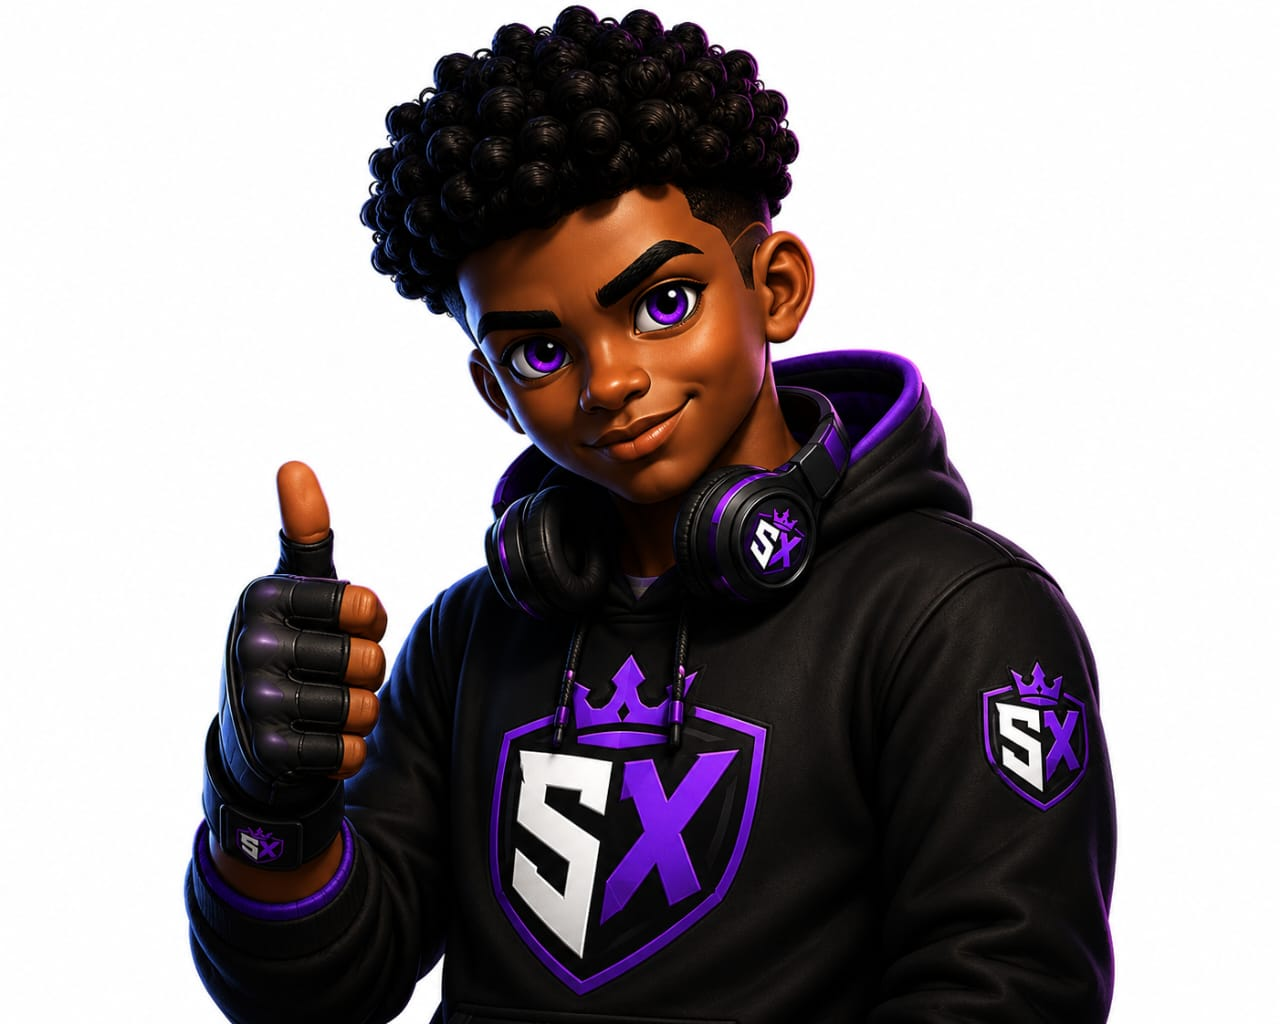
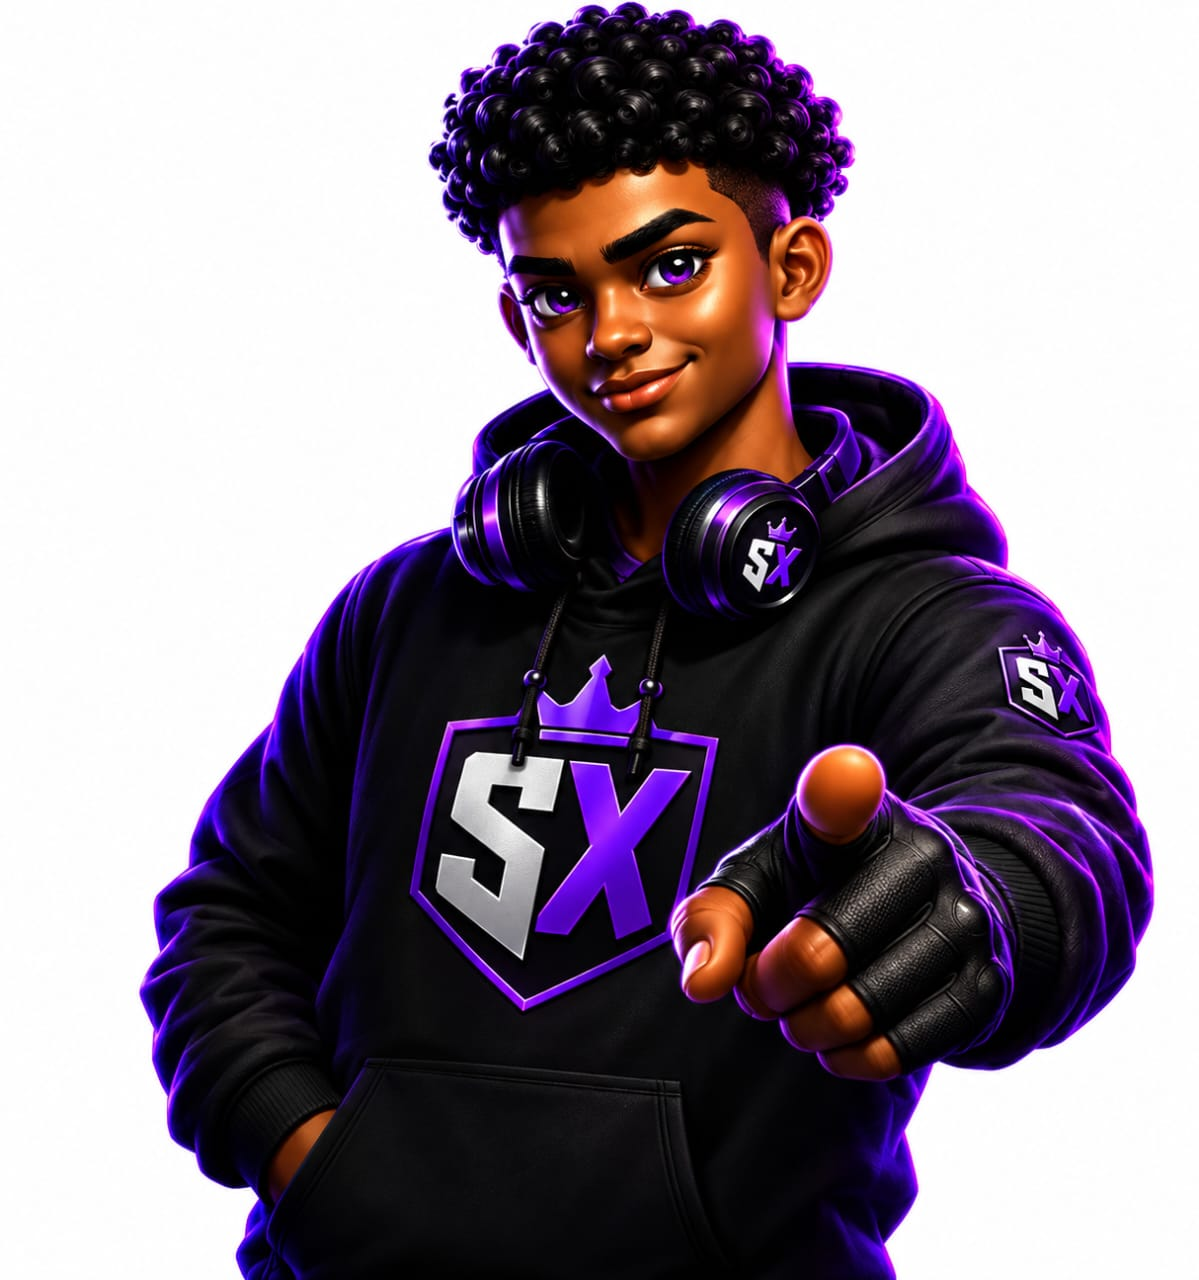
fix: restore Seasons to nav, rebuild About page hero/story/why-section
- Seasons was dropped from the tightened Navbar during the visual overhaul
  and only reachable by typing the URL directly — restored to NAVBAR_LINKS,
  and also added it (plus TV/Hall of Fame/Players/Betting, which the footer
  rewrite had silently dropped too) into the expanded footer's Platform
  column so nothing regresses like this again
- About hero: switched to the same absolute/inset-y-0 bottom-anchored
  mascot sizing used on the other 4 hero pages — the grid-stretch approach
  from the last fix was capped by the (short) text/promise-card content
  height instead of the section's actual height, so it barely grew
- About hero: "Our Promise" card now floats independently top-right instead
  of sharing a grid row with the mascot, matching the mockup's composition
- Leaderboards mascot pose was thumbs-up (mascot9) — mockup actually shows
  the same pointing-toward-viewer pose as Games, so regenerated
  mascot-leaderboards.png from mascot4.jpeg
- "Why Sentinel X" section's duplicate mascot-on-plain-gradient-box (looked
  like an unfinished placeholder) replaced with an abstract arena/crowd
  panel (pure CSS gradients + grid pattern) — no stadium photo asset exists
  to match the mockup's real photo, so this is a deliberate stand-in
  rather than reusing the mascot a third time on the page
- Timeline now has a connecting line through the 4 stage icons, matching
  the mockup's actual timeline look instead of a plain icon grid
[…]

diff --git a/app/(public)/about/page.tsx b/app/(public)/about/page.tsx
@@ -1,5 +1,5 @@
 import Image from 'next/image'
-import { ShieldCheck, Target, Eye, Gem, Flag, Trophy, Users, Rocket, Handshake, BookOpen, Gift } from 'lucide-react'
+import { ShieldCheck, Target, Eye, Gem, Flag, Trophy, Users, Rocket, Handshake, BookOpen, Gift, Crown } from 'lucide-react'
 import { buildMetadata } from '@/lib/seo/metadata'
 import { DEFAULT_OG_IMAGE } from '@/lib/seo/site'
 
@@ -79,7 +79,7 @@ export default function AboutPage() {
           aria-hidden
           className="pointer-events-none absolute -bottom-24 -left-24 h-72 w-72 rounded-full bg-sx-purple/25 blur-[100px]"
         />
-        <div className="relative grid gap-8 px-6 py-10 sm:px-10 sm:py-14 lg:grid-cols-[1fr_auto_auto] lg:items-end">
+        <div className="relative px-6 py-10 sm:px-10 sm:py-14 lg:py-16 lg:pr-64 xl:pr-[22rem]">
           <div className="text-center lg:text-left">
             <p className="mb-3 text-xs font-bold uppercase tracking-widest text-sx-purple-text">About Sentinel X</p>
             <h1 className="font-display text-4xl font-black uppercase leading-[0.95] tracking-tight text-white sm:text-5xl lg:text-6xl">
@@ -100,28 +100,30 @@ export default function AboutPage() {
               ))}
             </div>
           </div>
+        </div>
 
-          <div className="relative mx-auto h-64 w-52 shrink-0 sm:h-80 sm:w-64 lg:h-[26rem] lg:w-56 xl:h-[28rem] xl:w-64">
-            <Image
-              src="/mascot/mascot-about.png"
-              alt="Sentinel, the Sentinel X mascot"
-              fill
-              priority
-              sizes="(min-width: 1280px) 16rem, (min-width: 1024px) 14rem, 13rem"
-              className="object-contain object-bottom"
-            />
-          </div>
+        {/* Mascot — bottom-anchored, fills the hero's actual height at lg+ */}
+        <div className="relative mx-auto -mt-2 h-64 w-52 pb-8 sm:h-80 sm:w-64 lg:absolute lg:inset-y-0 lg:right-56 lg:mx-0 lg:h-auto lg:w-56 lg:pb-0 xl:right-64 xl:w-64">
+          <Image
+            src="/mascot/mascot-about.png"
+            alt="Sentinel, the Sentinel X mascot"
+            fill
+            priority
+            sizes="(min-width: 1280px) 16rem, (min-width: 1024px) 14rem, 13rem"
+            className="object-contain object-bottom"
+          />
+        </div>
 
-          <div className="w-full max-w-xs rounded-xl border border-sx-purple/30 bg-sx-surface p-5 lg:w-64">
-            <p className="mb-2 flex items-center gap-2 text-sm font-bold text-white">
-              <ShieldCheck className="h-4 w-4 text-sx-purple-text" /> Our Promise
-            </p>
-            <p className="text-xs italic text-sx-gray">
-              &ldquo;We provide a fair, safe and competitive environment where every gamer has the chance to
-              play, grow and succeed.&rdquo;
-            </p>
-            <p className="mt-3 font-display text-lg italic text-sx-purple-text">— Sentinel</p>
-          </div>
+        {/* Our Promise — floats top-right, independent of the mascot's height */}
+        <div className="relative mx-auto mt-6 w-full max-w-xs rounded-xl border border-sx-purple/30 bg-sx-surface p-5 lg:absolute lg:right-6 lg:top-8 lg:mx-0 lg:mt-0 lg:w-56 xl:w-64">
+          <p className="mb-2 flex items-center gap-2 text-sm font-bold text-white">
+            <ShieldCheck className="h-4 w-4 text-sx-purple-text" /> Our Promise
+          </p>
+          <p className="text-xs italic text-sx-gray">
+            &ldquo;We provide a fair, safe and competitive environment where every gamer has the chance to
+            play, grow and succeed.&rdquo;
+          </p>
+          <p className="mt-3 font-display text-lg italic text-sx-purple-text">— Sentinel</p>
         </div>
       </section>
 
@@ -168,10 +170,14 @@ export default function AboutPage() {
           Sentinel X was born from a simple belief: gamers deserve more. More opportunities, more
           platforms, and more respect.
         </p>
-        <div className="grid gap-6 sm:grid-cols-2 lg:grid-cols-4">
+        <div className="relative grid gap-8 sm:grid-cols-2 lg:grid-cols-4">
+          <div
+            aria-hidden
+            className="absolute left-5 right-5 top-5 hidden h-px bg-gradient-to-r from-transparent via-sx-purple/40 to-transparent lg:block"
+          />
           {TIMELINE.map((t) => (
-            <div key={t.year + t.title}>
-              <span className="mb-3 flex h-10 w-10 items-center justify-center rounded-full bg-sx-purple/15 text-sx-purple-text">
+            <div key={t.year + t.title} className="relative">
+              <span className="relative z-10 mb-3 flex h-10 w-10 items-center justify-center rounded-full border border-sx-purple/30 bg-sx-bg text-sx-purple-text">
                 <t.icon className="h-5 w-5" />
               </span>
               <p className="text-xs font-bold text-sx-purple-text">{t.year}</p>
@@ -184,15 +190,7 @@ export default function AboutPage() {
 
       {/* ── Why Sentinel X ────────────────────────────────────── */}
       <section className="mb-10 grid gap-8 rounded-xl border border-sx-border bg-sx-surface p-6 sm:p-8 lg:grid-cols-2 lg:items-center">
-        <div className="relative mx-auto h-64 w-full max-w-sm overflow-hidden rounded-xl bg-gradient-to-br from-sx-purple/20 via-sx-surface to-sx-bg">
-          <Image
-            src="/mascot/mascot-about.png"
-            alt="Sentinel, the Sentinel X mascot"
-            fill
-            sizes="24rem"
-            className="object-contain object-bottom"
-          />
-        </div>
+        <ArenaPanel />
         <div>
           <p className="mb-1 text-xs font-bold uppercase tracking-widest text-sx-purple-text">Why Sentinel X?</p>
           <h2 className="mb-5 font-display text-2xl font-black text-white">We Provide More</h2>
@@ -208,7 +206,16 @@ export default function AboutPage() {
       </section>
 
       {/* ── CTA banner ────────────────────────────────────────── */}
-      <section className="rounded-xl border border-sx-purple/30 bg-gradient-to-r from-sx-purple/20 to-transparent p-8 text-center">
+      <section className="relative overflow-hidden rounded-xl border border-sx-purple/30 bg-gradient-to-r from-sx-purple/20 to-transparent py-8 pl-24 pr-8 text-center sm:pl-32">
+        <div className="pointer-events-none absolute bottom-0 left-2 hidden h-full w-24 sm:block">
+          <Image
+            src="/mascot/mascot-about.png"
+            alt=""
+            fill
+            sizes="6rem"
+            className="object-contain object-bottom"
+          />
+        </div>
         <p className="font-display text-2xl font-black uppercase text-white sm:text-3xl">
           Be Part of Something Bigger.
         </p>
@@ -222,6 +229,41 @@ export default function AboutPage() {
           <Users className="h-4 w-4" /> Join the Community →
         </a>
       </section>
+    </div>
+  )
+}
+
+// Abstract "arena at night" panel — no stadium photo asset exists, so this is
+// built from layered gradients rather than reusing the mascot crop a second
+// time (which read as a placeholder, not a deliberate design choice).
+function ArenaPanel() {
+  return (
+    <div className="relative mx-auto h-64 w-full max-w-sm overflow-hidden rounded-xl border border-sx-border bg-sx-bg">
+      <div
+        aria-hidden
+        className="absolute inset-0"
+        style={{
+          backgroundImage:
+            'radial-gradient(circle at 20% 15%, rgba(124,58,237,0.35), transparent 45%),' +
+            'radial-gradient(circle at 80% 10%, rgba(124,58,237,0.25), transparent 40%),' +
+            'radial-gradient(circle at 50% 100%, rgba(124,58,237,0.3), transparent 55%)',
+        }}
+      />
+      <div
+        aria-hidden
+        className="absolute inset-0 opacity-[0.15]"
+        style={{
+          backgroundImage:
+            'linear-gradient(rgba(255,255,255,0.5) 1px, transparent 1px), linear-gradient(90deg, rgba(255,255,255,0.5) 1px, transparent 1px)',
+          backgroundSize: '28px 28px',
+          maskImage: 'radial-gradient(ellipse at center, black 0%, transparent 75%)',
+        }}
+      />
+      <div className="relative flex h-full flex-col items-center justify-center gap-2 text-center">
+        <Crown className="h-10 w-10 text-sx-purple-text drop-shadow-[0_0_20px_rgba(124,58,237,0.6)]" />
+        <p className="font-display text-xl font-black uppercase tracking-wide text-white">Sentinel X</p>
+        <p className="text-xs uppercase tracking-[0.3em] text-sx-purple-text">The Arena Awaits</p>
+      </div>
     </div>
   )
 }

diff --git a/lib/nav/links.ts b/lib/nav/links.ts
@@ -40,13 +40,18 @@ export const HEADER_LINKS: NavLink[] = [...PILLAR_LINKS, ...SECONDARY_LINKS]
 
 // The Phase 1 visual-overhaul Navbar (see docs/superpowers visual-overhaul spec §2.1)
 // shows a tighter, mockup-exact link set — including Home as its own item — rather
-// than every secondary destination HEADER_LINKS carries. /tv, /seasons, /betting and
-// /hall-of-fame stay reachable from the footer.
+// than every secondary destination HEADER_LINKS carries. The mockup itself only
+// covers Home/Tournaments/Games/Leaderboards/Store/Community/About — it's a style
+// reference, not an exhaustive page list, so real destinations the mockup doesn't
+// show (Seasons) are kept in the nav rather than dropped. /tv, /betting,
+// /hall-of-fame and /players stay reachable from the footer (see FOOTER_SECTIONS
+// below, which SiteFooter's expanded variant renders).
 export const NAVBAR_LINKS: NavLink[] = [
   { href: '/', label: 'Home' },
   { href: '/tournaments', label: 'Tournaments' },
   { href: '/games', label: 'Games' },
   { href: '/rankings', label: 'Leaderboards' },
+  { href: '/seasons/season-1', label: 'Seasons' },
   { href: '/exchange', label: 'Store' },
   { href: '/community', label: 'Community' },
   { href: '/about', label: 'About Us' },

diff --git a/components/shared/SiteFooter.tsx b/components/shared/SiteFooter.tsx
@@ -29,8 +29,13 @@ const EXPANDED_SECTIONS: { heading: string; links: { href: string; label: string
       { href: '/tournaments', label: 'Tournaments' },
       { href: '/games', label: 'Games' },
       { href: '/rankings', label: 'Leaderboards' },
+      { href: '/seasons/season-1', label: 'Seasons' },
       { href: '/exchange', label: 'Store (Exchange)' },
       { href: '/community', label: 'Community' },
+      { href: '/tv', label: 'Sentinel X TV' },
+      { href: '/hall-of-fame', label: 'Hall of Fame' },
+      { href: '/players', label: 'Players' },
+      { href: '/betting', label: 'Betting' },
     ],
   },
   {
